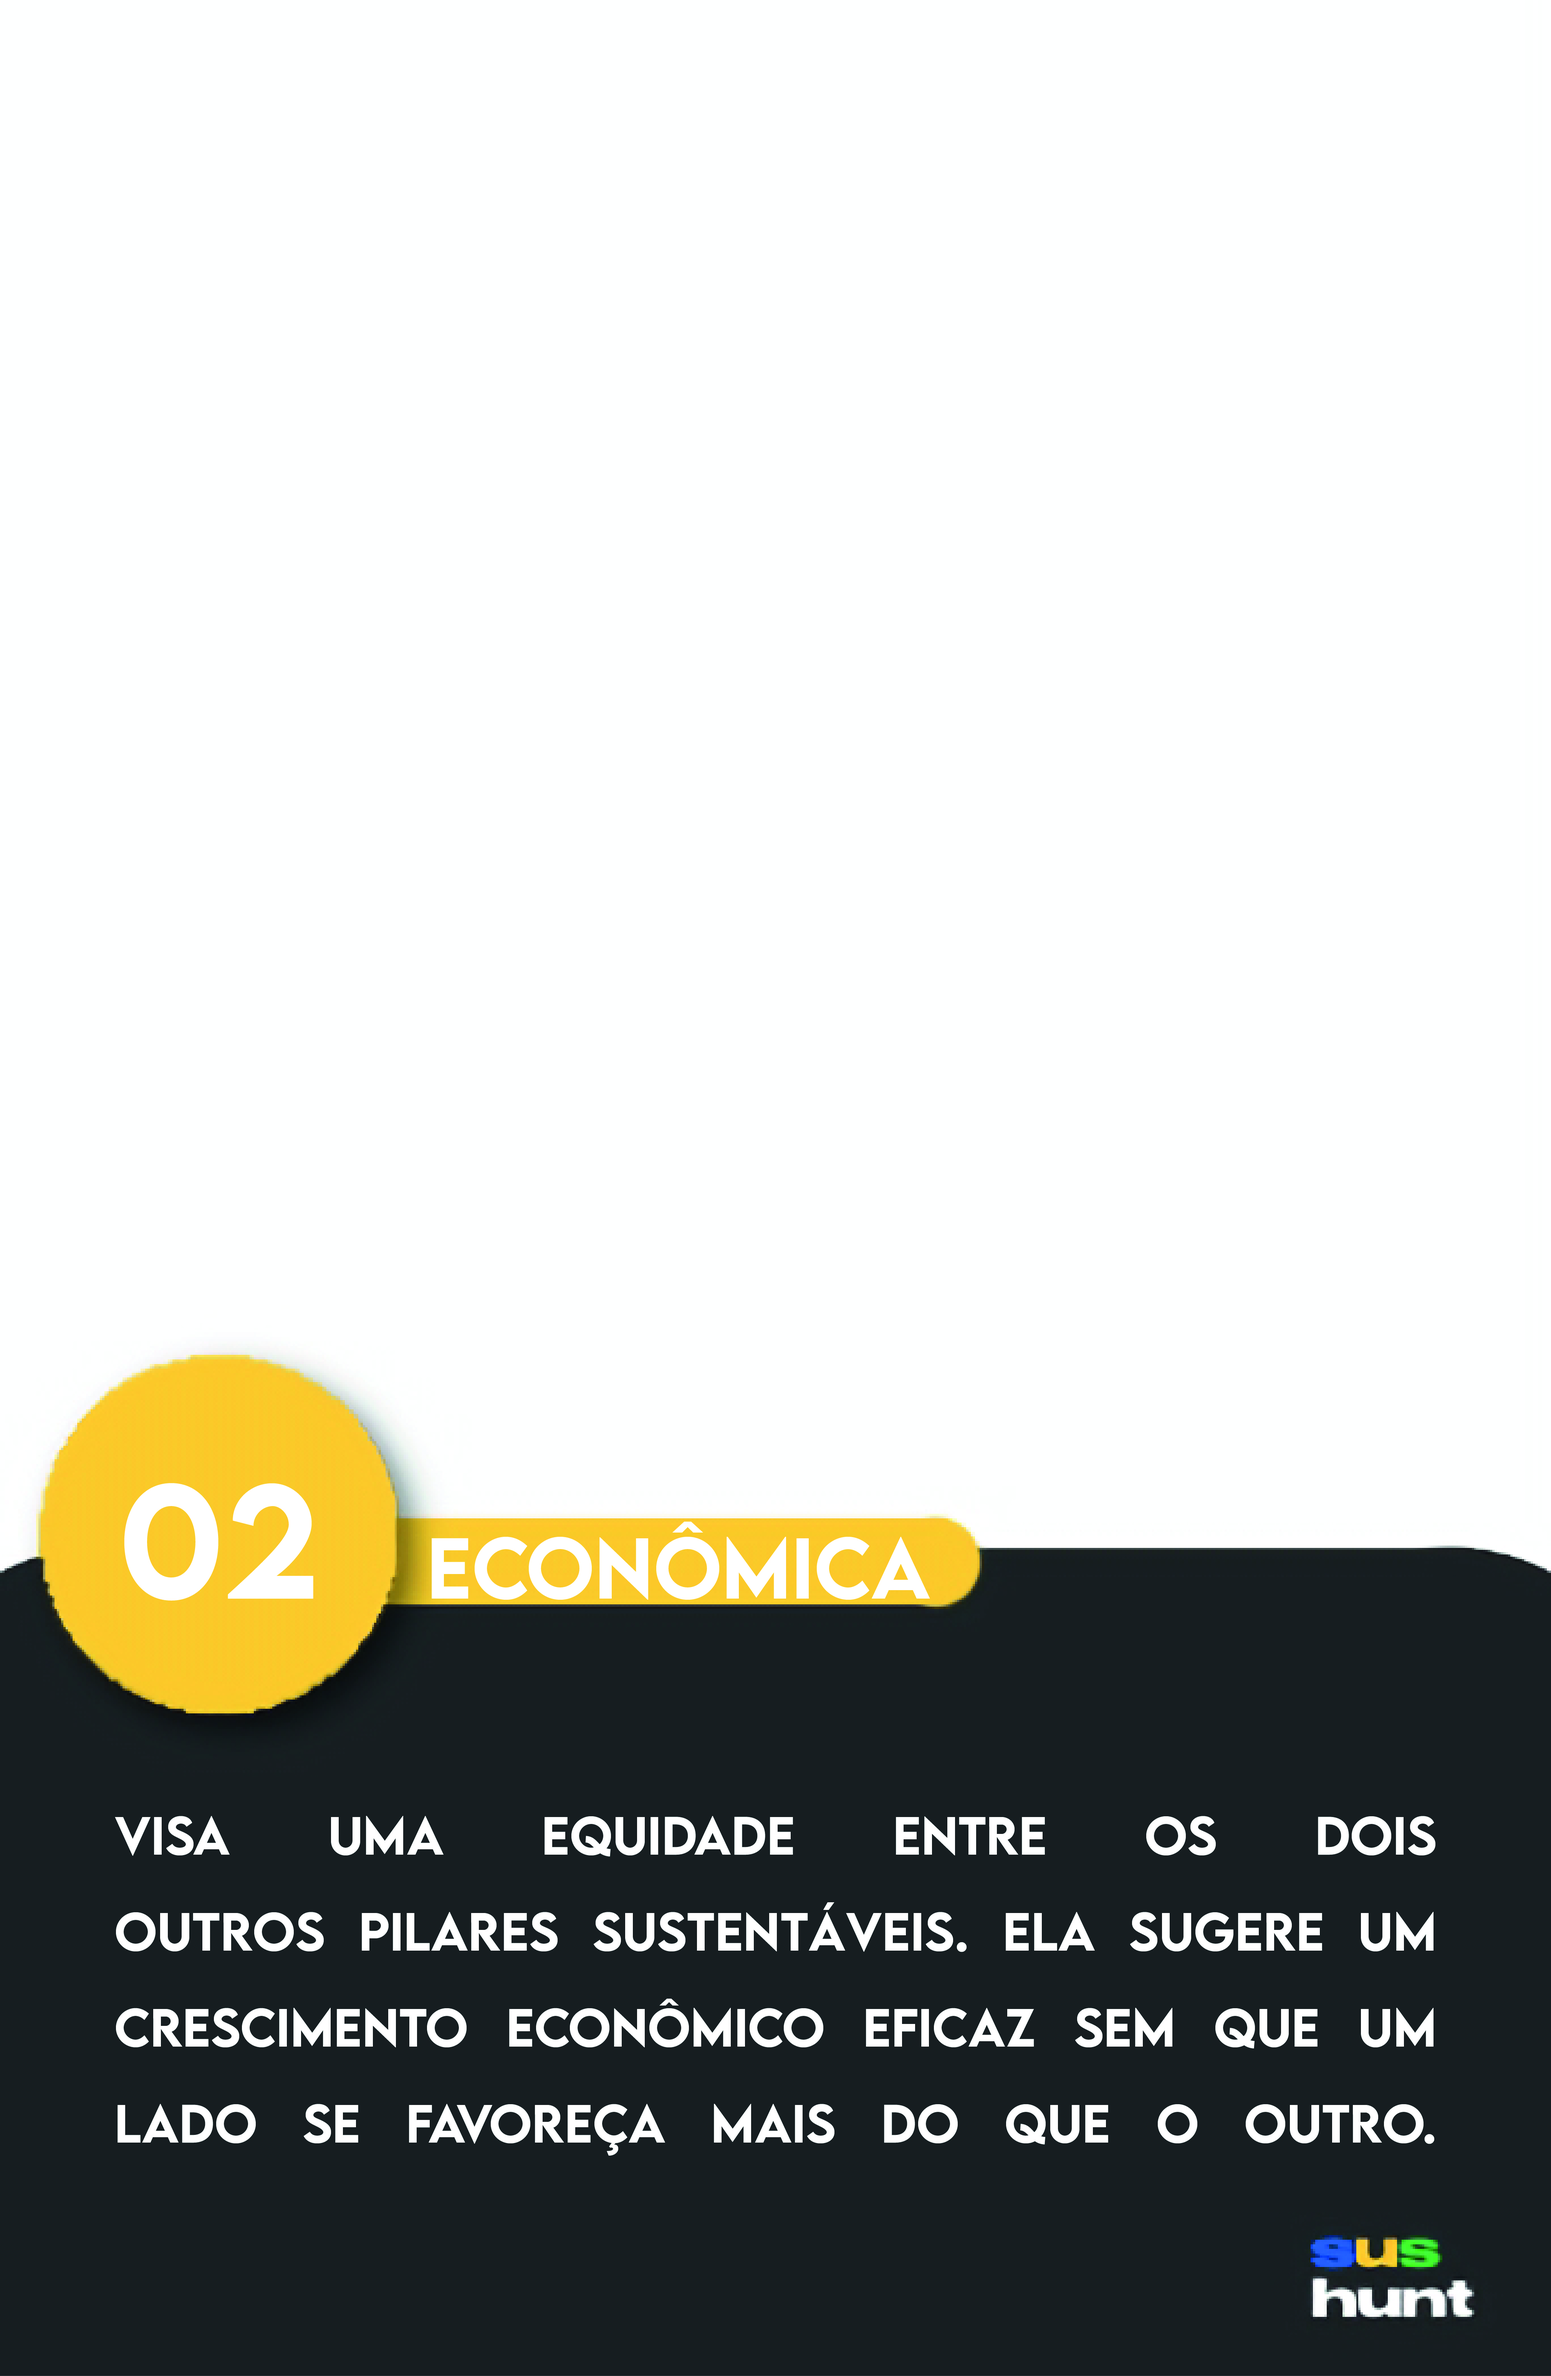
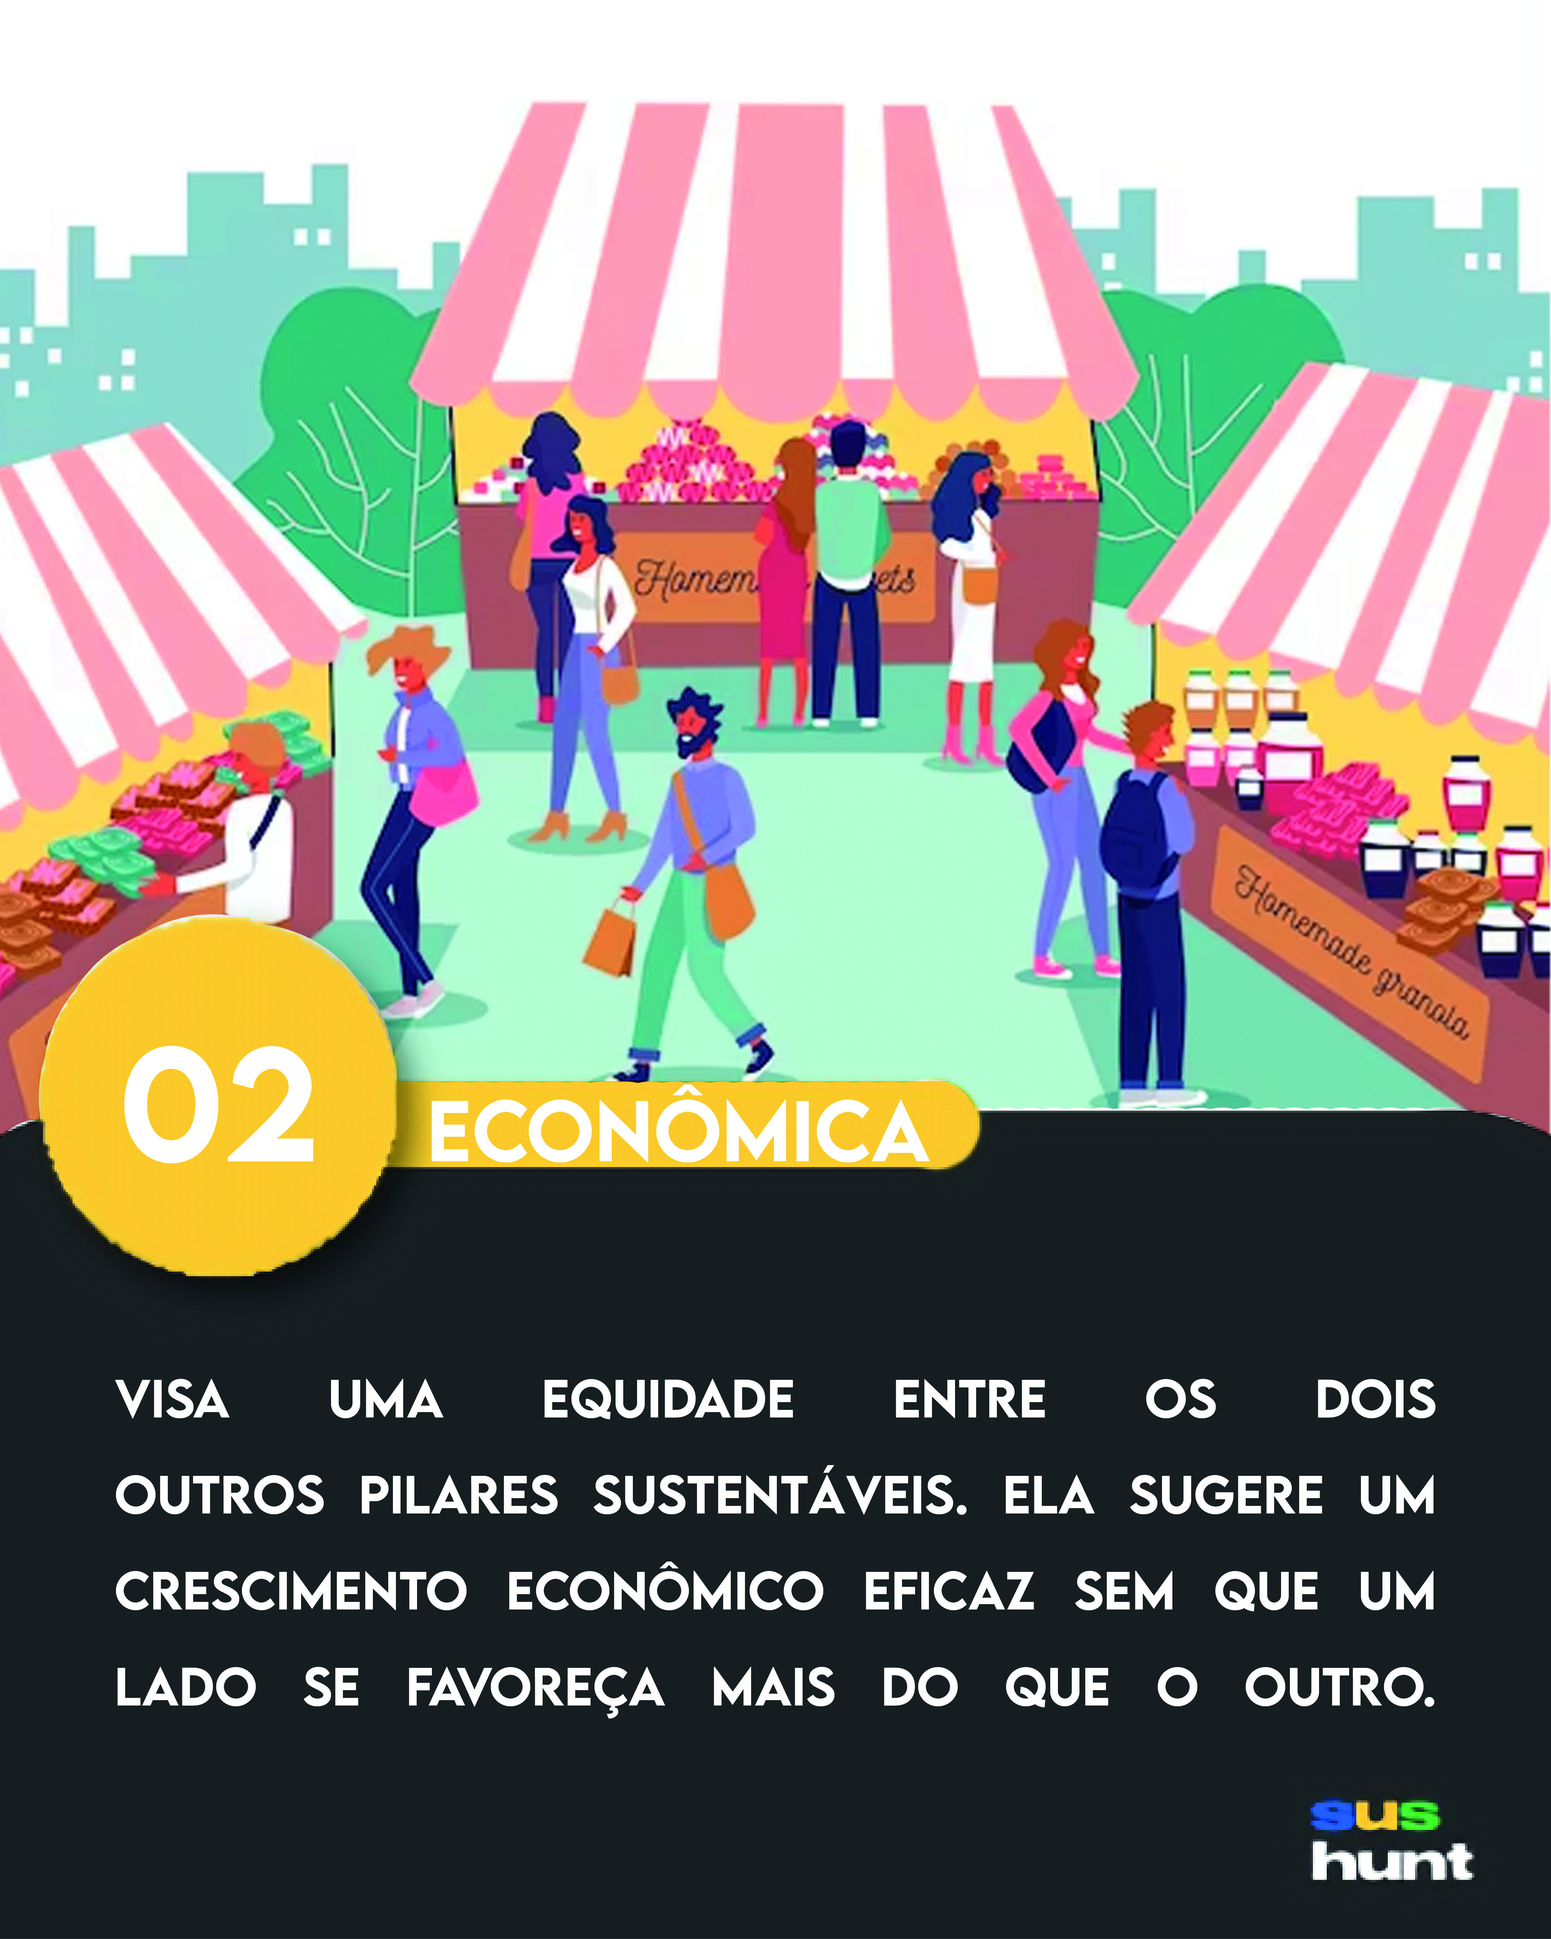
Site update

diff --git a/ZXJIJHDXJ/index.html b/ZXJIJHDXJ/index.html
@@ -4,23 +4,69 @@
     <meta charset="UTF-8">
     <meta name="viewport" content="widht=device-widht, initial-scale=1.0">
     <title>SusHunt</title>
-    <link rel="icon" href="icon.png">
-    <link rel="stylesheet" href="/style.css">
+    <link rel="icon" href="../icon.png">
+    <link rel="stylesheet" href="../style.css">
   </head>
   <body>
     <header>
-      <img src="/Images/page_banner.png" class="page_banner">
+      <img src="../Images/page_banner.png" class="page_banner">
     </header>
     <article>
       <br>
-      <img src="/Images/economica-01.jpg">
       <div>
-
+      <h2 class="title" style="color: #FFDE59;">Sustentabilidade Econômica</h2>
+      <p>
+        Parabens por chegar até aqui! Você acaba de concluir um terço da caçada e
+        está mais perto da vitória, mas ainda tem caminho para ser percorrido.
+        Aqui, além de darmos uma cartinha colecionável, a qual você precisa pra
+        concluir o jogo, também vamos te dar uma das três partes da dica que
+        te levará para linha de chegada.
+      </p>
+      <img src="../Images/economica-01.jpg" class="prizecards">
       </div>
-      <div>
-        <h2 class="title"> Economico </h2>
+      
 
+      <div>
+       
+       <a href="../Images/social-01.jpg" download>
+          <button class="save_button" style="background-color: #FFDE59;"><b>Salvar Carta!</b></button>
+       </a>
+        <br>
+        <div style="margin-left: 32vw;">
+        <p>
+          Mas antes disso, aqui vai uma curiosidade sobre a <b style="color: #FFDE59;">sustentabilidade econômica:</b>
+        </p>
+        <p>
+          Algumas plataformas como Airbnb e Uber promovem a <b style="color: #FFDE59;">economia compartilhada</b>, permitindo que
+          recursos subutilizados sejam aproveitados de maneira mais eficiente. O que pode reduzir
+          o número de produtos sendo fabricados e com isso diminuir o desperdício e o impacto ambiental.
+        </p>
+        </div>
+        <br>
+        <p>
+          Agora que você já entende um pouco sobre a sustentabilidade econômica, chegou a hora
+          de continuar o nosso jogo. o trecho a seguir será a <b>terceira parte</b> da dica que
+          vai te levar a vitória. <b style="color: #FFDE59;">“</b><i>Aqui nos vamos colocar a
+          primeira parte da dica final que vai levar para onde vamos distribuir os prêmios</i>
+          <b style="color: #FFDE59;">”</b>. Mas lembre-se você ainda precisa encontrar as duas
+          cartas restantes que representam os outros dois pilares da sustentabilidade, são elas
+          que te darão as outras partes da dica que leva a linha de chegada.
+        </p>
+        <p>
+          Para você que continua lendo, <b style="color: #FFDE59;">vamos te recompensar</b>
+          com um pouco mais de conhecimento. Aqui vai uma sugestão pratica de como contribuir
+          com a econômia local de uma forma que não exige muito de você: Comprar de produtores
+          e comerciantes locais fortalece a economia da comunidade. Além disso, a troca e compra
+          de produtos usados, como aparelhos celulares, livros e outros itens, também é uma forma
+          de econômia sustentável.
+        </p>
       </div>
     </article>
+    <footer>
+      <p style="text-align: center;">
+        Obrigado por ler até aqui!
+      </p>
+      <a href="../" style="color: #FFDE59;"><p style="text-align: center;"><b>VOLTAR A PÁGINA PRINCIPAL</p></b></a>
+    </footer>
   </body>
 </html>

diff --git a/NJXDVG/index.html b/NJXDVG/index.html
@@ -4,22 +4,70 @@
     <meta charset="UTF-8">
     <meta name="viewport" content="widht=device-widht, initial-scale=1.0">
     <title>SusHunt</title>
-    <link rel="icon" href="/icon.png">
-    <link rel="stylesheet" href="/style.css">
+    <link rel="icon" href="../icon.png">
+    <link rel="stylesheet" href="../style.css">
   </head>
   <body>
     <header>
-      <img src="/Images/page_banner.png" class="page_banner">
+      <img src="../Images/page_banner.png" class="page_banner">
     </header>
     <article>
       <br>
-      <img src="/Images/social-01.jpg" class="prizecards">
       <div>
-
+      <h2 class="title" style="color: #2F81F6;">Sustentabilidade Social</h2>
+      <p>
+        Parabens por chegar até aqui! Você acaba de concluir um terço da caçada e
+        está mais perto da vitória, mas ainda tem caminho para ser percorrido.
+        Aqui, além de darmos uma cartinha colecionável, a qual você precisa pra
+        concluir o jogo, também vamos te dar uma das três partes da dica que
+        te levará para linha de chegada.
+      </p>
+      <img src="../Images/social-01.jpg" class="prizecards">
       </div>
+      
+
       <div>
-        <h2 class="title"> Social </h2>
+       
+       <a href="../Images/social-01.jpg" download>
+          <button class="save_button" style="background-color: #2F81F6;"><b>Salvar Carta!</b></button>
+       </a>
+        <br>
+        <div style="margin-left: 32vw;">
+        <p>
+          Mas antes disso, aqui vai uma curiosidade sobre a <b style="color: #2F81F6;">sustentabilidade social:</b>
+        </p>
+        <p>
+          Em várias partes do mundo, existem <b style="color: #2F81F6;">“bibliotecas humanas”</b> onde, em vez de pegar
+          livros emprestados, você pode “emprestar” uma pessoa para ouvir suas histórias
+          e experiências. Isso promove a empatia e a compreensão entre diferentes culturas
+          e estilos de vida.
+        </p>
+        </div>
+        <br>
+        <p>
+          Agora que você já entende um pouco sobre a sustentabilidade social, chegou a hora
+          de continuar o nosso jogo. o trecho a seguir será a <b>segunda parte</b> da dica que
+          vai te levar a vitória. <b style="color: #2F81F6;">“</b><i>Aqui nos vamos colocar a
+          primeira parte da dica final que vai levar para onde vamos distribuir os prêmios</i>
+          <b style="color: #2F81F6;">”</b>. Mas lembre-se você ainda precisa encontrar as duas
+          cartas restantes que representam os outros dois pilares da sustentabilidade, são elas
+          que te darão as outras partes da dica que leva a linha de chegada.
+        </p>
+        <p>
+          Para você que continua lendo, <b style="color: #2F81F6;">vamos te recompensar</b>
+          com um pouco mais de conhecimento. Aqui vai uma sugestão pratica de como contribuir
+          com a sua comunidade de uma forma que não exige muito de você: Dedique tempo a organizações
+          que trabalham com causas sociais, como projetos de limpeza e revitalização de locais
+          publicos, ou participe de programas de compartilhamento de recursos, como bicicletas,
+          carros e ferramentas.
+        </p>
       </div>
     </article>
+    <footer>
+      <p style="text-align: center;">
+        Obrigado por ler até aqui!
+      </p>
+      <a href="../" style="color: #2F81F6;"><p style="text-align: center;"><b>VOLTAR A PÁGINA PRINCIPAL</p></b></a>
+    </footer>
   </body>
 </html>

diff --git a/VHWDZIOVG/index.html b/VHWDZIOVG/index.html
@@ -18,7 +18,7 @@
       <p>
         Parabens por chegar até aqui! Você acaba de concluir um terço da caçada e
         está mais perto da vitória, mas ainda tem caminho para ser percorrido.
-        Aqui, além de darmos uma cartinha olecionável, a qual você precisa pra
+        Aqui, além de darmos uma cartinha colecionável, a qual você precisa pra
         concluir o jogo, também vamos te dar uma das três partes da dica que
         te levará para linha de chegada.
       </p>
